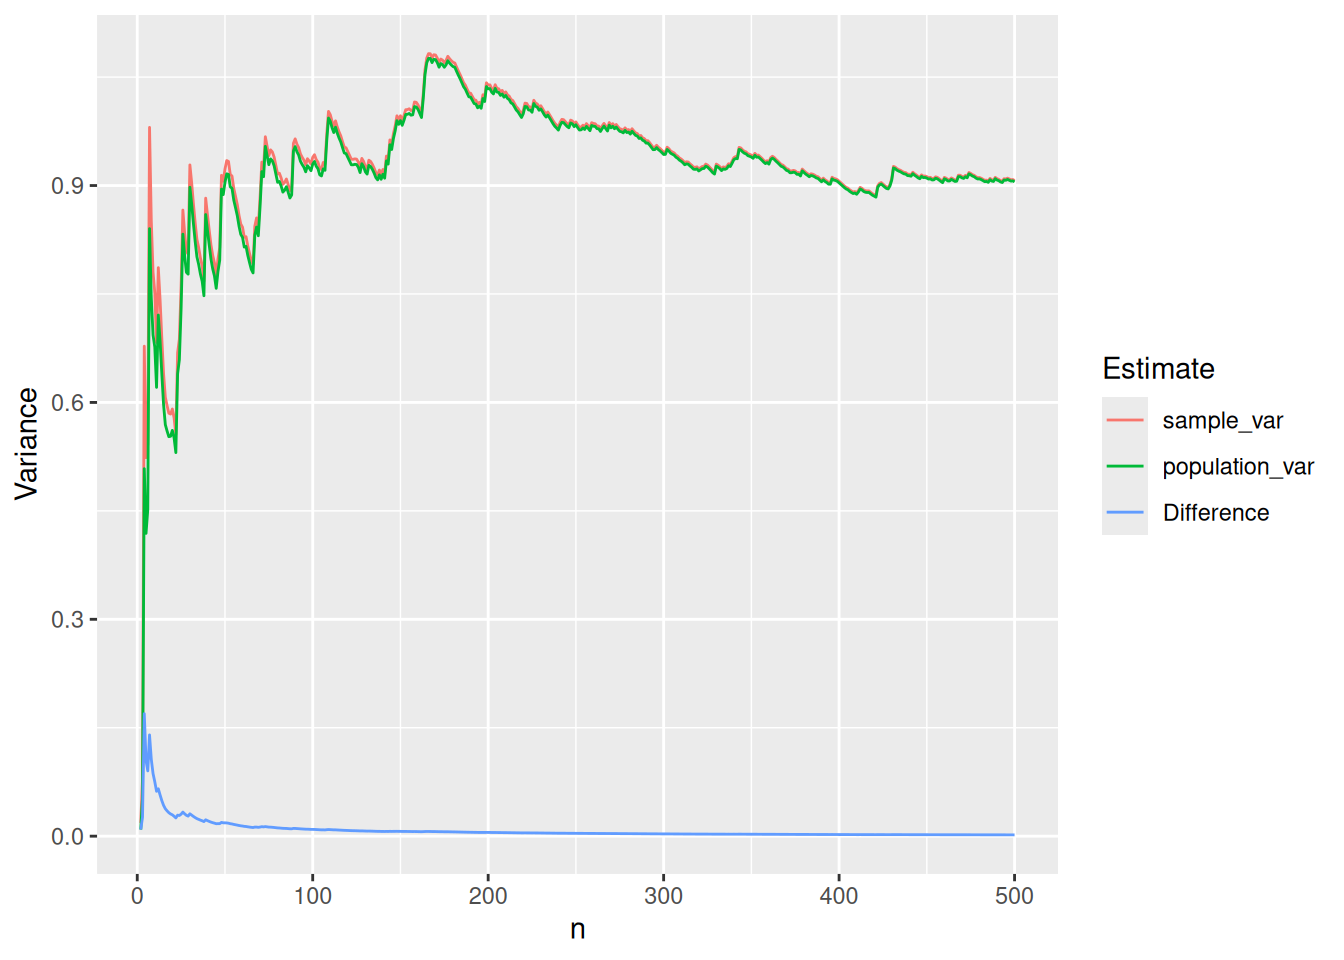
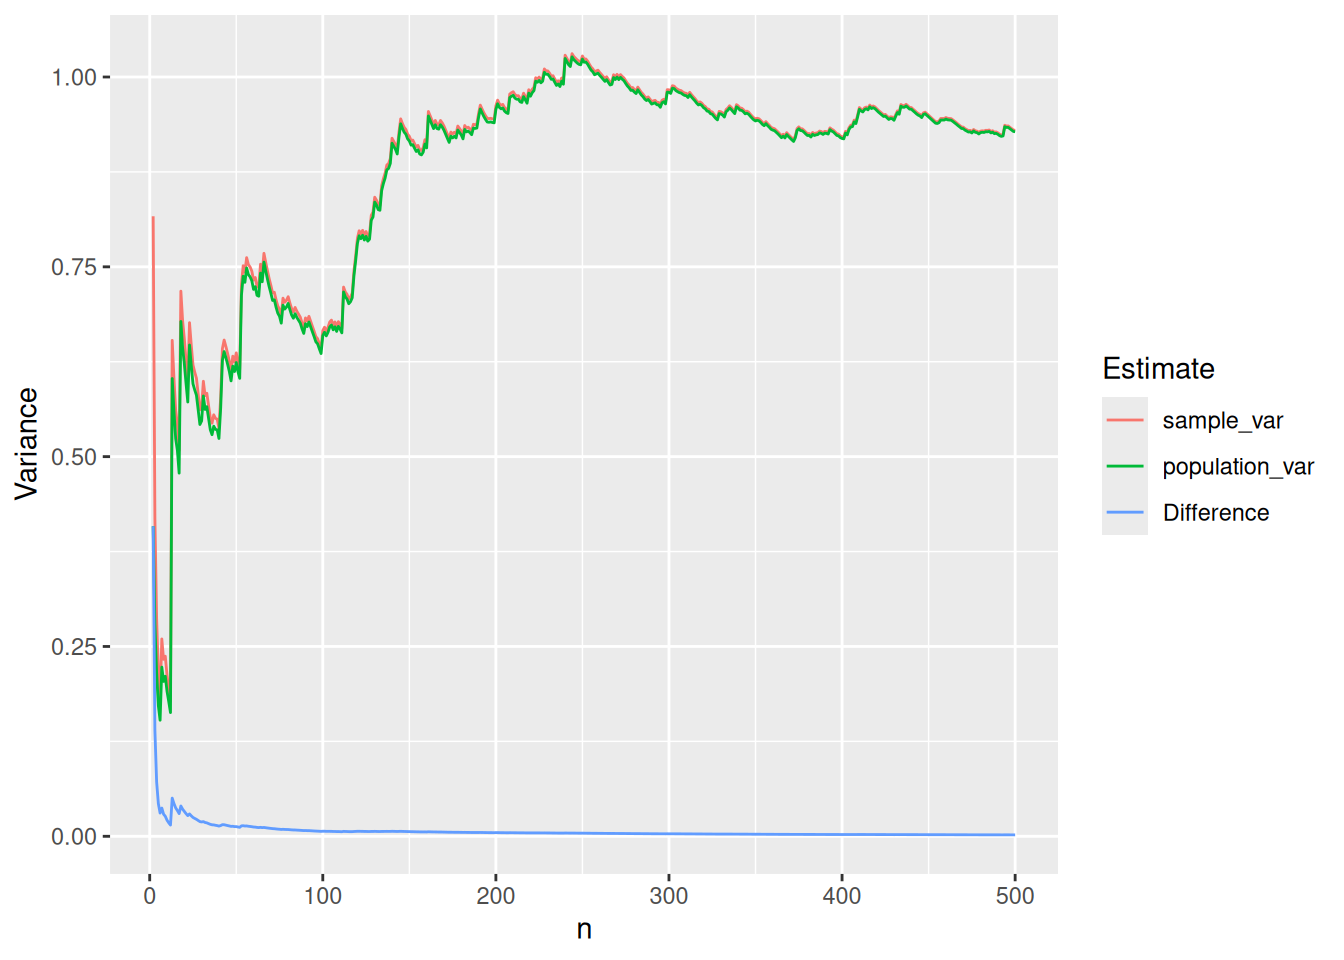
Deploying to gh-pages from @ jbryer/VisualStats@533796d41912a505e9bc09003ac38819c6ba8ab0 🚀

diff --git a/descriptives.html b/descriptives.html
@@ -464,11 +464,11 @@ Figure&nbsp;3.5: Sample versus population variances as <em>n</em> increases.
 </details>
 <div class="cell-output cell-output-stdout">
 <pre><code>      n sample_var population_var  Difference
-495 496  0.9102133      0.9083782 0.001835107
-496 497  0.9090973      0.9072681 0.001829170
-497 498  0.9079496      0.9061264 0.001823192
-498 499  0.9083447      0.9065244 0.001820330
-499 500  0.9068631      0.9050493 0.001813726</code></pre>
+495 496  0.9355734      0.9336872 0.001886237
+496 497  0.9336989      0.9318202 0.001878670
+497 498  0.9319703      0.9300989 0.001871426
+498 499  0.9301777      0.9283136 0.001864083
+499 500  0.9297171      0.9278577 0.001859434</code></pre>
 </div>
 </div>
  <iframe id="example1" src="https://r.bryer.org/shiny/variance/" style="border: none; width: 100%; height: 400px" frameborder="0"></iframe>

diff --git a/index.html b/index.html
@@ -316,7 +316,7 @@ div.csl-indent {
 </header>
 
 
-<p><strong>Last updated on November 13, 2025</strong></p>
+<p><strong>Last updated on November 17, 2025</strong></p>
 <section id="introduction" class="level1" data-number="1">
 <h1 data-number="1"><span class="header-section-number">1</span> Introduction</h1>
 <p>This website is largely inspired by what our advisor, colleague, and friend Bob Pruzek called <em>elemental graphics.</em> The first two paragraphs from <span class="citation" data-cites="ElementalGraphics">Pruzek and Helmreich (<a href="references.html#ref-ElementalGraphics" role="doc-biblioref">2010</a>)</span> succinctly introduces the core ideas of <em>elemental graphics</em>:</p>
@@ -355,7 +355,7 @@ div.csl-indent {
  collate  C.UTF-8
  ctype    C.UTF-8
  tz       UTC
- date     2025-11-13
+ date     2025-11-17
  pandoc   3.1.3 @ /usr/bin/ (via rmarkdown)
  quarto   1.8.26 @ /usr/local/bin/quarto
 